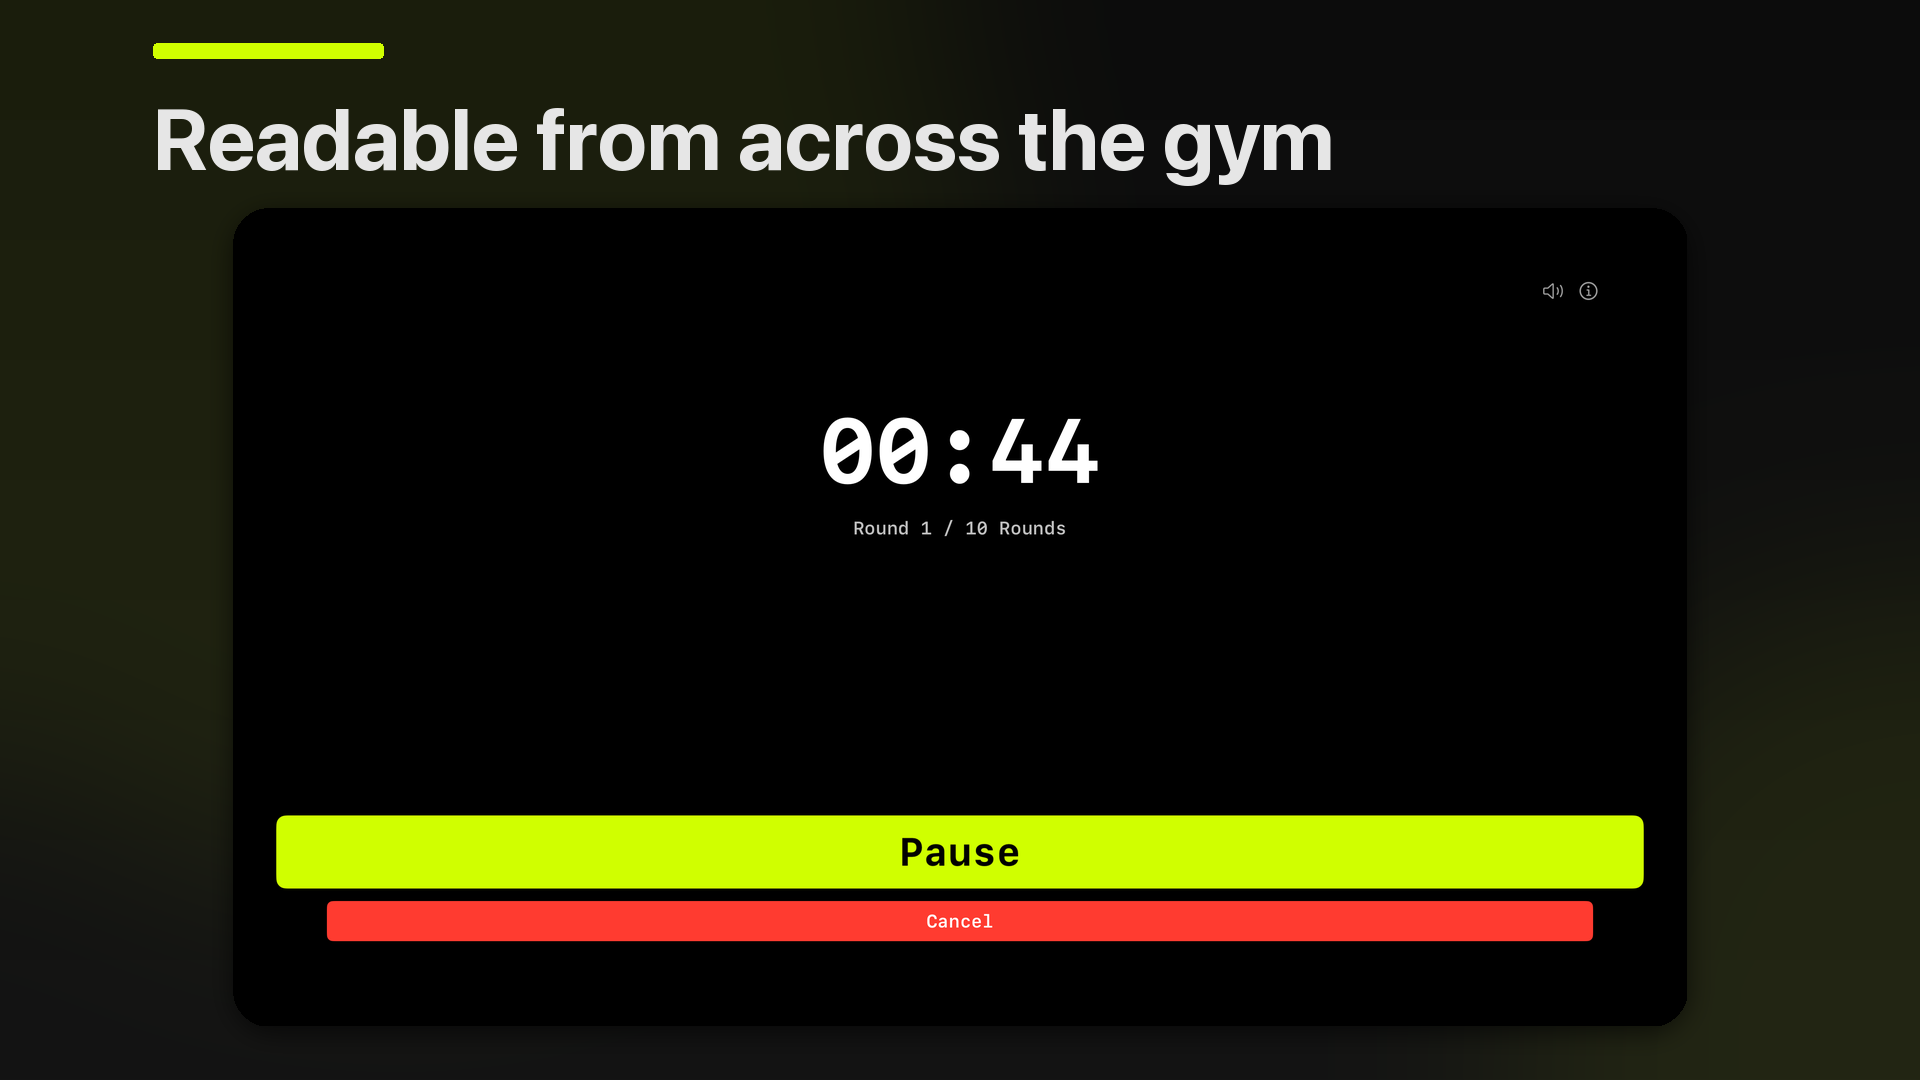
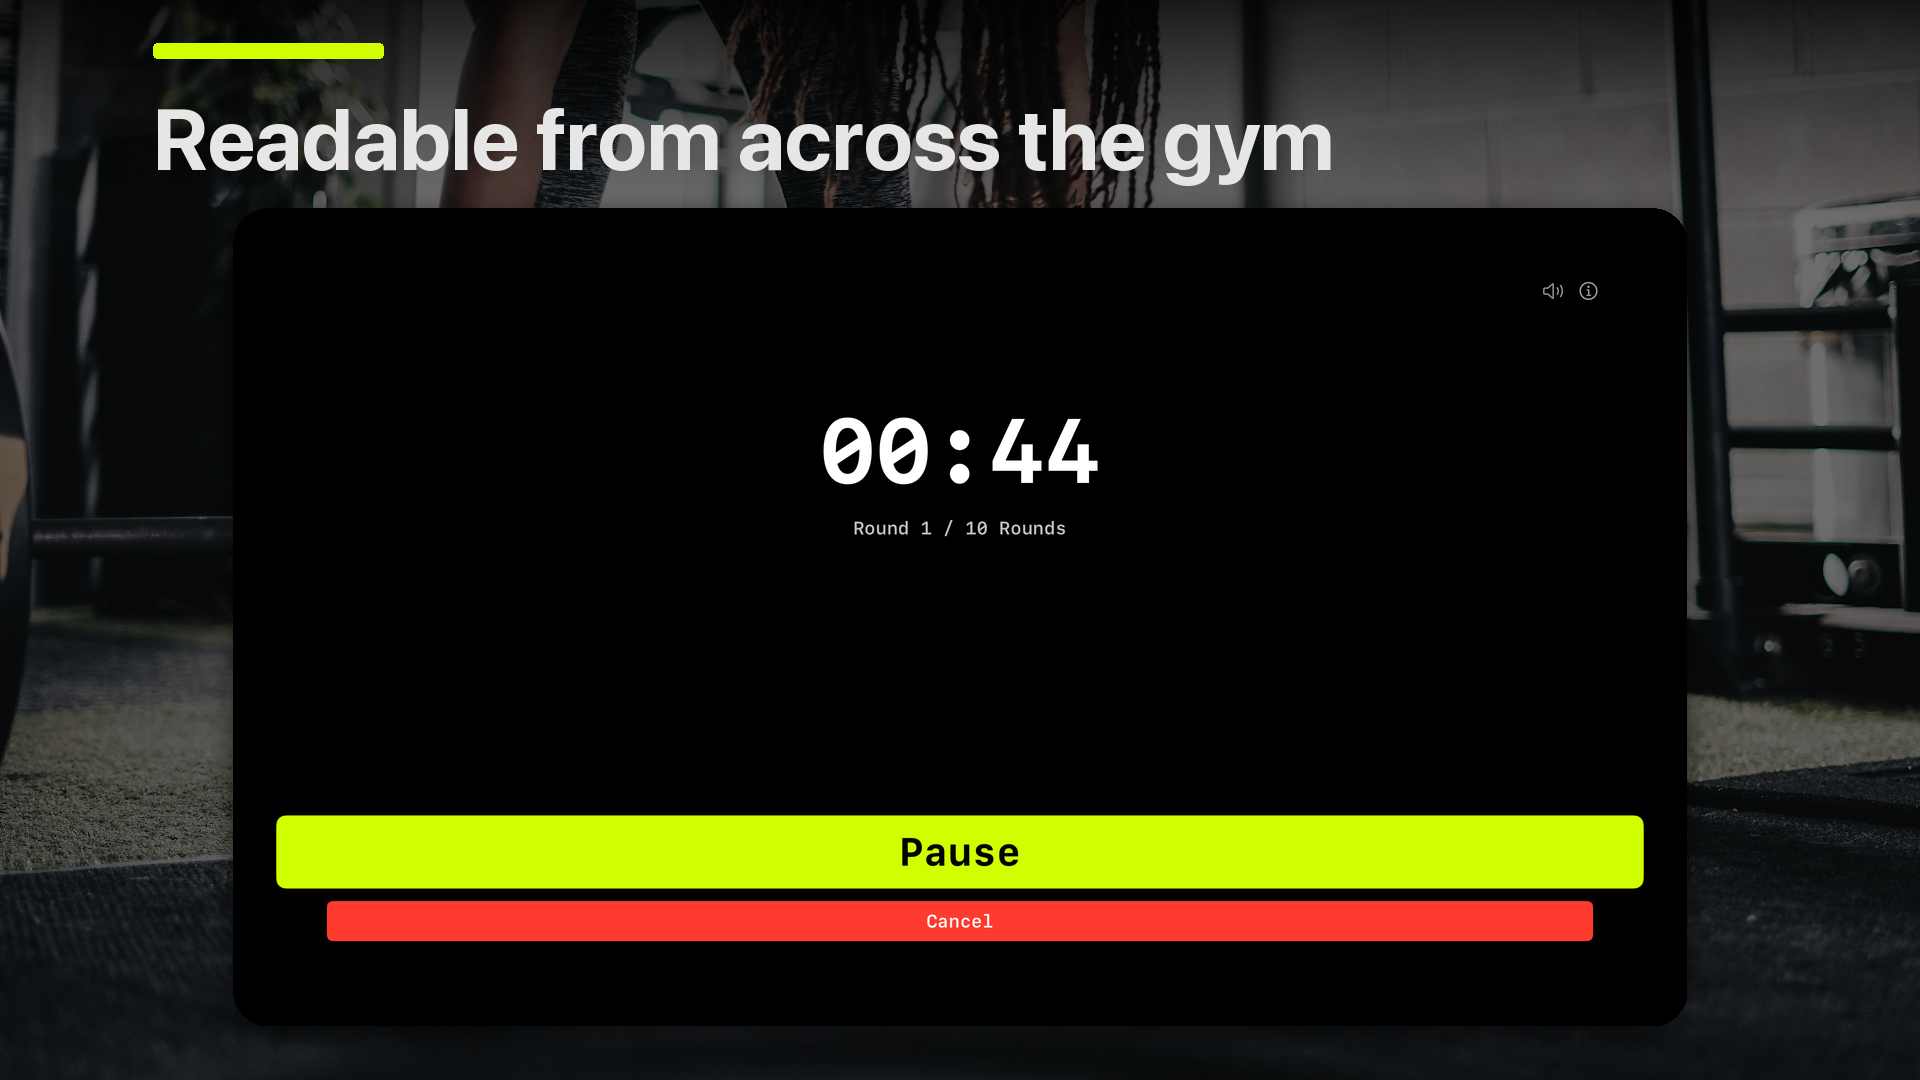
Put the Apple TV screenshots on a gym photograph
Tried a photo ground on both iPhone and Apple TV. It earns its place on
one of them. The landscape tvOS canvas leaves room for the floor, rig
and plates to read around the screen, which supports "readable from
across the gym" with context the UI cannot show. On the portrait iPhone
canvas the photo is reduced to slivers at the edges and reads as noise,
so iPhone, iPad and Mac keep the plain brand ground. The category backs
that up: the two nearest competitors both ship plain dark grounds.

Photos are Unsplash. That licence allows commercial use with no
attribution, but grants no model release, so both are cropped body
shots with nobody identifiable. Recorded in appstore/photos/README.md.

The second tvOS caption is shortened to one line so the two posters
frame their screens identically.

diff --git a/appstore/photos/README.md b/appstore/photos/README.md
@@ -1,0 +1,19 @@
+# Photos used as screenshot grounds
+
+Source: Unsplash, extracted from the WODrounds brand book. The Unsplash License
+allows commercial use with no permission and no attribution required.
+
+Two things it does not cover, so they were checked separately:
+
+- It grants no model or property release. Both photos are cropped body shots with
+  no faces, so nobody depicted is readily identifiable, which is what makes them
+  usable in App Store marketing.
+- It does not allow selling the photo itself. We composite it as a darkened,
+  desaturated background behind the app screen, which is not that.
+
+Only the two Apple TV shots use a photo. The landscape canvas leaves room for the
+gym to read around the screen, which supports the "readable from across the gym"
+claim with context the UI cannot show itself. On the portrait iPhone and iPad
+canvases the photo is reduced to slivers at the edges and reads as noise, so those
+keep the plain brand ground. The category backs that up: the two nearest
+competitors both ship plain dark grounds.

diff --git a/docs/APP_STORE_CONNECT.md b/docs/APP_STORE_CONNECT.md
@@ -165,6 +165,8 @@ Capture rule learned in 1.7: set the simulator's **system** language, not just t
 
 Apple Watch shots stay uncaptioned; the screen is too small for a caption band.
 
+**The two Apple TV shots sit on a photograph** ([`appstore/photos/`](../appstore/photos/), Unsplash, see the README there for the licence check). The landscape canvas leaves room for the gym to read around the screen, which backs the "readable from across the gym" claim with context the UI cannot show. iPhone, iPad and Mac keep the plain brand ground: on a portrait canvas the photo is reduced to slivers at the edges and reads as noise, and the two nearest competitors both ship plain dark grounds, so a photo is a differentiation bet rather than a norm.
+
 Content to feature, in order: (1) timer running (hero), (2) mode setup showing EMOM / Intervals / For Time, (3) the Apple Watch / multi-device angle.
 
 ---
